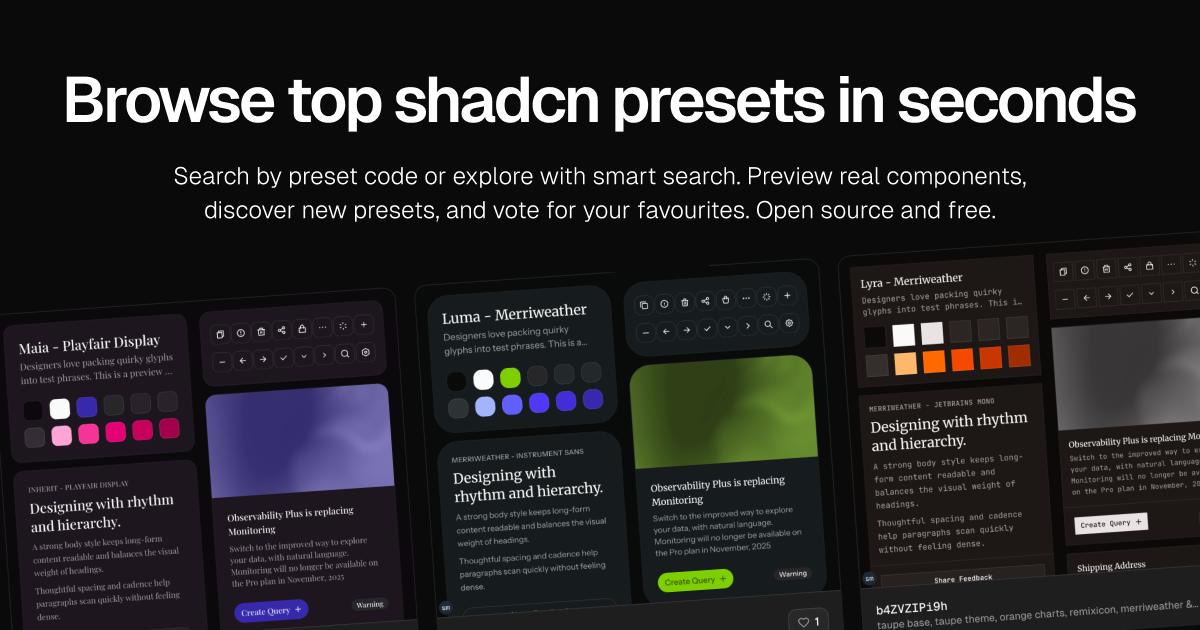
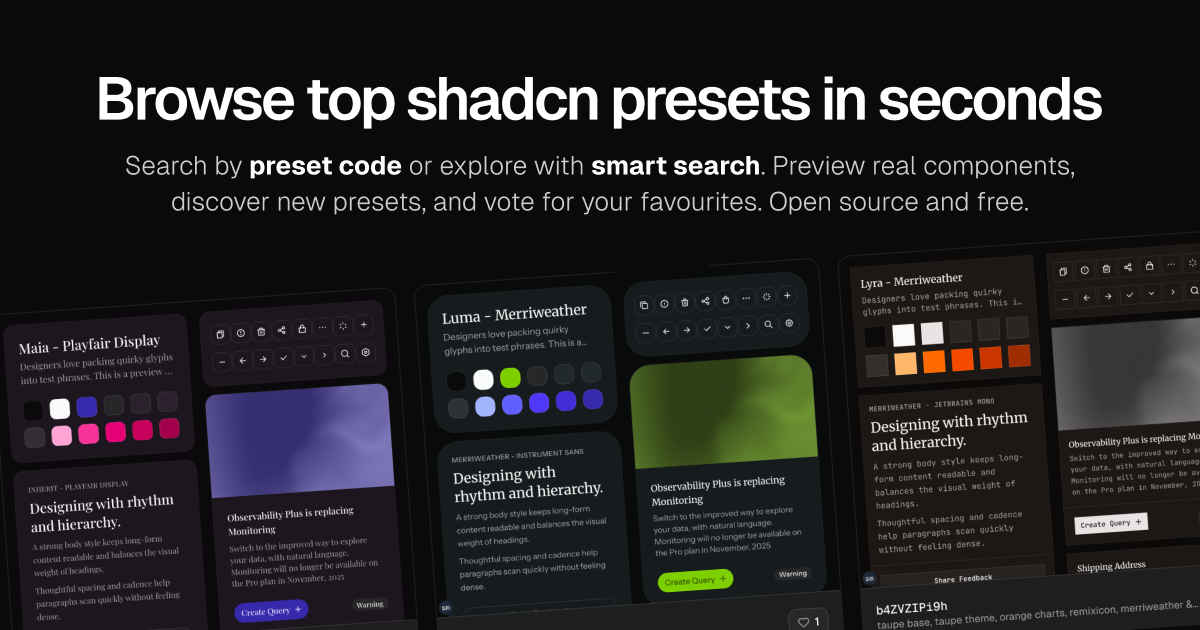
Update with new headline

Changed region(s): [[0.0925, 0.2413, 0.8942, 0.3619], [0.0308, 0.1206, 0.9558, 0.2111]]

diff --git a/apps/shadcnpreset/components/home-hero.tsx b/apps/shadcnpreset/components/home-hero.tsx
@@ -22,7 +22,9 @@ export function HomeHero({ children }: HomeHeroProps) {
       <PageHeaderHeading className="max-w-4xl">
         {siteConfig.title}
       </PageHeaderHeading>
-      <PageHeaderDescription>{siteConfig.description}</PageHeaderDescription>
+      <PageHeaderDescription className="text-muted-foreground">
+        {siteConfig.description}
+      </PageHeaderDescription>
       <div className="w-full max-w-2xl">{children}</div>
     </PageHeader>
   )
